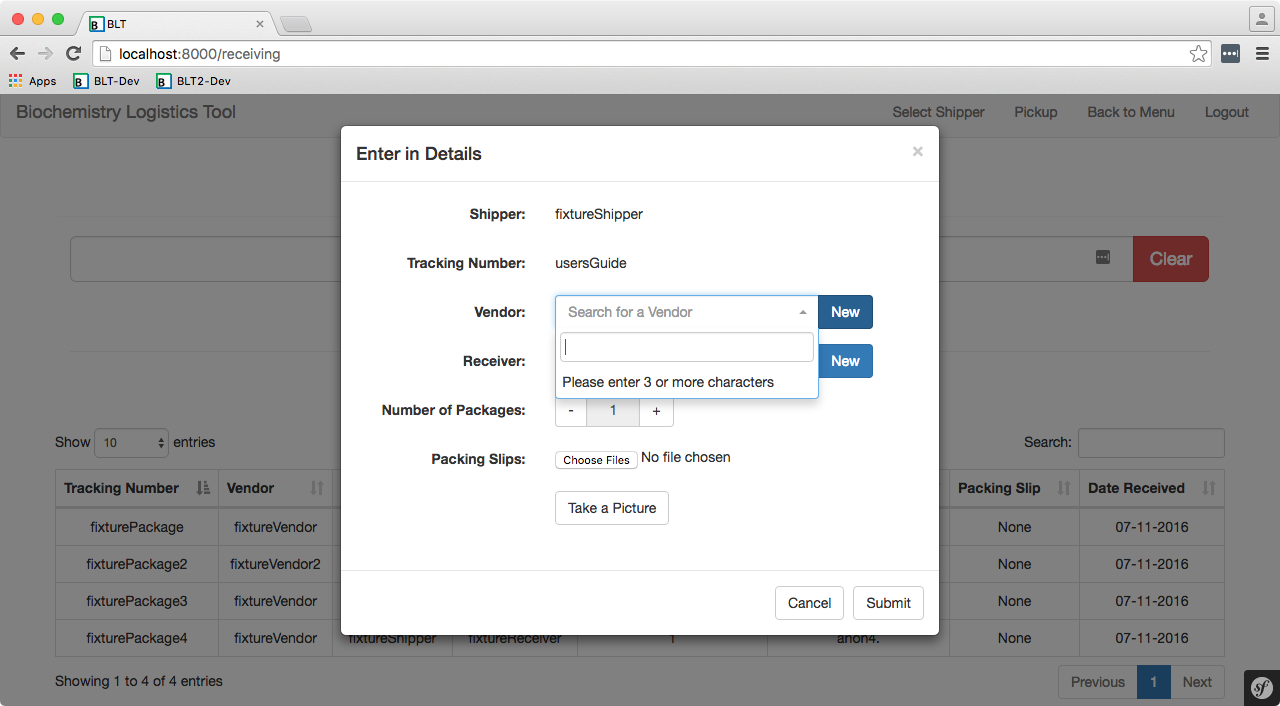
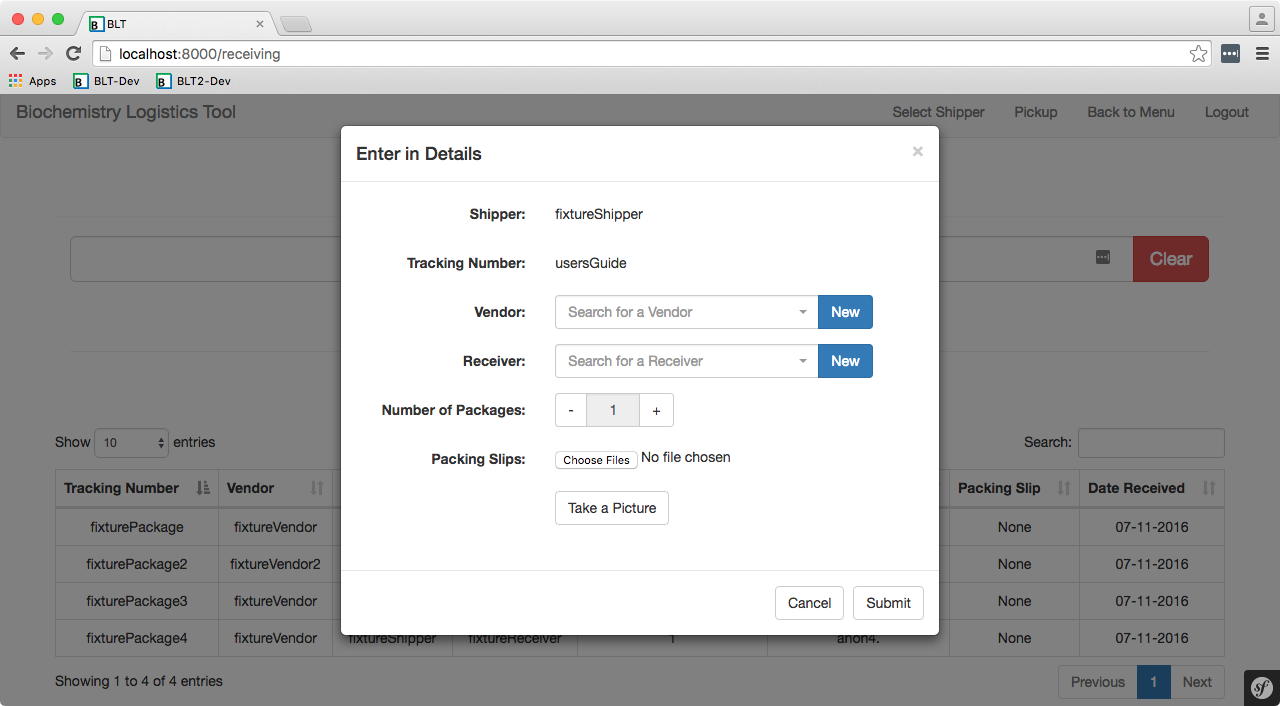
Updated the templates/JS to not use so many caps and updated usersGuide.md

Changed region(s): [[0.4375, 0.4674, 0.6562, 0.5921], [0.4375, 0.4051, 0.6875, 0.4674]]

diff --git a/web/js/blocks/newShipper.block.js b/web/js/blocks/newShipper.block.js
@@ -44,11 +44,8 @@ $(document).ready(function() {
         var newShipper = newShipperName.val();
 
         // If newShipperName value is empty, null or more than 15 characters, display error
-        if (newShipper.replace(/\s/g, "") == "") {
+        if (newShipper === null || newShipper.replace(/\s/g, "") == "") {
             addError("New Shipper name can not be empty");
-            newShipperName.focus();
-        } else if (newShipper.length > 15) {
-            addError("New Shipper name has to be less than 15 characters");
             newShipperName.focus();
         } else {
             // Submit new shipper information
@@ -113,7 +110,7 @@ $(document).ready(function() {
         // Clear all errors
         newShipperLabel.removeClass("label-danger");
         newShipperLabel.addClass("label-primary");
-        newShipperLabel.text("New Shipper Name must be unique");
+        newShipperLabel.text("New Shipper name must be unique");
 
         newShipperNameDiv.removeClass("has-error");
     }

diff --git a/web/js/blocks/newVendor.block.js b/web/js/blocks/newVendor.block.js
@@ -40,7 +40,7 @@ $(document).ready(function() {
         var vendorName = newVendorName.val();
 
         // If the vendor name is null or empty spaces or empty, display error
-        if ((vendorName == null) || ((vendorName.replace(/\s/g, "")) == "")) {
+        if ((vendorName === null) || ((vendorName.replace(/\s/g, "")) == "")) {
             addError("Enter in name for the new Vendor");
             newVendorName.focus();
         } else {
@@ -100,7 +100,7 @@ $(document).ready(function() {
         // Clear all errors
         newVendorLabel.removeClass("label-danger");
         newVendorLabel.addClass("label-primary");
-        newVendorLabel.text("New Vendor Name must be unique");
+        newVendorLabel.text("New Vendor name must be unique");
 
         newVendorNameDiv.removeClass("has-error");
     }

diff --git a/web/js/blocks/newReceiver.block.js b/web/js/blocks/newReceiver.block.js
@@ -45,7 +45,7 @@ $(document).ready(function() {
         var receiverRoomNumber = newReceiverRoomNumber.val();
 
         // If the new receiver name and/or new receiver room number are null or empty, display error
-        if ((receiverName == null) || ((receiverName.replace(/\s/g, "")) == '')) {
+        if ((receiverName === null) || ((receiverName.replace(/\s/g, "")) == '')) {
             addError("name", "Enter a name for the new Receiver");
             newReceiverName.focus();
         } else if ((receiverRoomNumber == null) || ((receiverRoomNumber.replace(/\s/g, '')) == '')) {

diff --git a/web/js/select2Blocks/select2Vendor.js b/web/js/select2Blocks/select2Vendor.js
@@ -4,7 +4,7 @@ $(document).ready(function() {
      */
     $("#select2-Vendor").select2({
         theme: "bootstrap",
-        minimumInputLength: 3,
+        minimumInputLength: 1,
         placeholder: "Search for a Vendor",
         width: "off",
         ajax: {

diff --git a/src/AppBundle/Controller/API/ReceiverController.php b/src/AppBundle/Controller/API/ReceiverController.php
@@ -426,7 +426,7 @@ class ReceiverController extends Controller
                 // Set up the response
                 $results = array(
                     'result' => 'error',
-                    'message' => 'No such receiver -> ' . $name ,
+                    'message' => 'No Receiver with the name: ' . $name ,
                     'object' => []
                 );
 

diff --git a/docs/usersGuide.md b/docs/usersGuide.md
@@ -1,5 +1,16 @@
-User's Guide
+User's guide
 ============
+## Table of contents
+- At a glance
+- Getting started
+    - Creating a new Shipper
+    - Creating a new Vendor
+    - Creating a new Receiver
+- Receiving
+- Delivering
+- Reporting
+- View
+- Maintenance
 
 ## At a glance
 ### Main menu
@@ -16,15 +27,18 @@ User's Guide
 ![Maintenance](usersGuide/maintenance.png)
 
 ## Getting started
-#### Introduction
+### Introduction
 After getting BLT2 up and running on your server, you'll have to add Receivers, Shippers, and Vendors to the database. You can either do this as Packages arrive or create a MySQL/MariaDB .sql file and import it into the database.
 
-## Basics
+Once you have some entities created, submitting Packages with details should be a pretty straight-forward process. 
+ 
 ### Creation of entities
 The creation of entities are through the receiving page (/receiving).
 
 #### Creating a new Shipper
 Going to the receiving page (/receiving) will automatically prompt you to select a Shipper. From here, you can click on "Add new Shipper" to create a new Shipper.
+
+Once the new Shipper has been created, the list will automatically update to include the newly created Shipper.
 
 ##### Requirements for creating a new Shipper
 - Name must be unique
@@ -36,6 +50,8 @@ Going to the receiving page (/receiving) will automatically prompt you to select
 #### Creating a new Vendor
 By scanning in a tracking number (or entering in text) into the tracking number input field and opening up the form by clicking on "Enter in details", you'll have the chance to create a new Vendor by clicking on "New" next to the Vendor search box.
 
+Once the new Vendor has been created, the Vendor input text field will automatically populate the field.
+ 
 ##### Requirements for creating a new Vendor
 - Name must be unique
 
@@ -48,6 +64,8 @@ By scanning in a tracking number (or entering in text) into the tracking number 
 #### Creating a new Receiver
 By scanning in a tracking number (or entering in text) into the tracking number input field and opening up the form by clicking on "Enter in details", you'll have the chance to create a new Receiver by clicking on "New" next to the Receiver search box.
 
+Once the new Receiver has been created, the Receiver input text field will automatically be populate the field.
+
 ##### Requirements for creating a new Receiver
 - Name must be unique
 
@@ -57,5 +75,16 @@ By scanning in a tracking number (or entering in text) into the tracking number 
 
 ![Receiving - New Receiver](usersGuide/entityCreation/receiver.png)
 
-### Receiving
-#### Submitting a new Package entity
+#### Creating/Submitting a new Package
+By scanning in a tracking number (or entering in text) into the tracking number input field and opening up the form by clicking on "Enter in details", you'll have the chance to add details about the Package before submitting. This includes adding packing slips from the hard disk and/or using a camera to capture the packing slip.
+
+When opening the form, the Vendor search input box should be opened, ready for you to start typing the name of the Vendor.
+
+##### Requirements for creating a new Package
+- Tracking number must be unique
+
+![Receiving - New entity creation](usersGuide/entityCreation/textInput.png) 
+
+![Receiving - Form](usersGuide/entityCreation/form.png)
+
+![Receiving - New Package](usersGuide/entityCreation/receiver.png)
